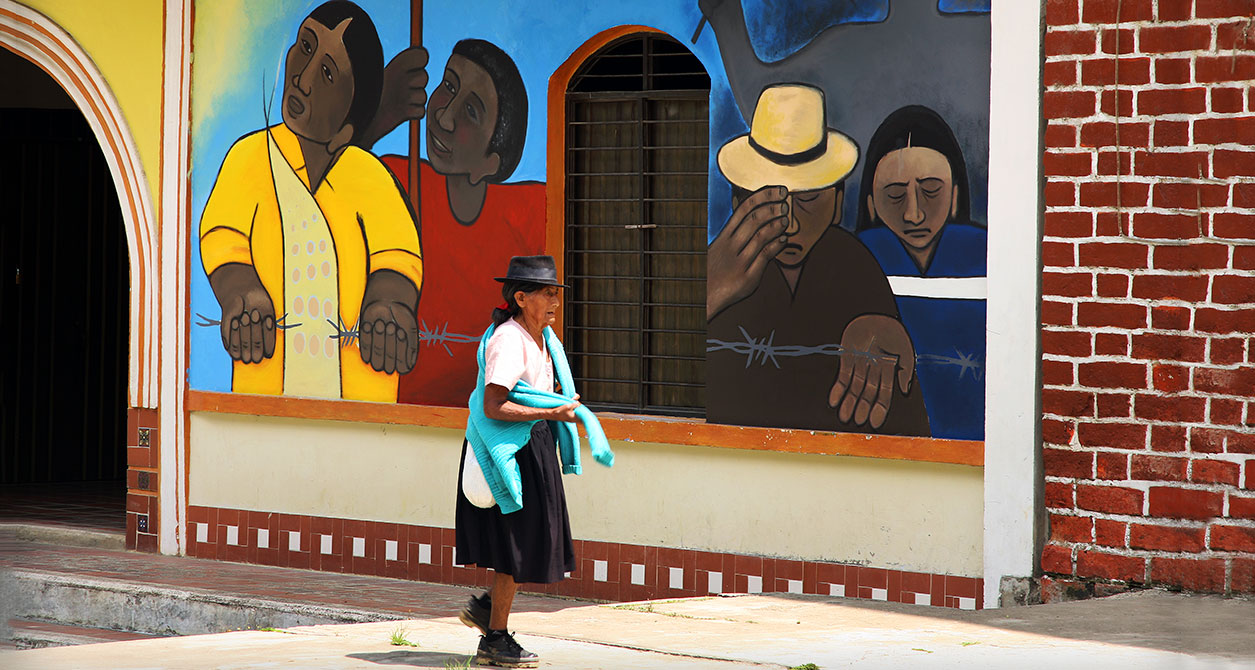
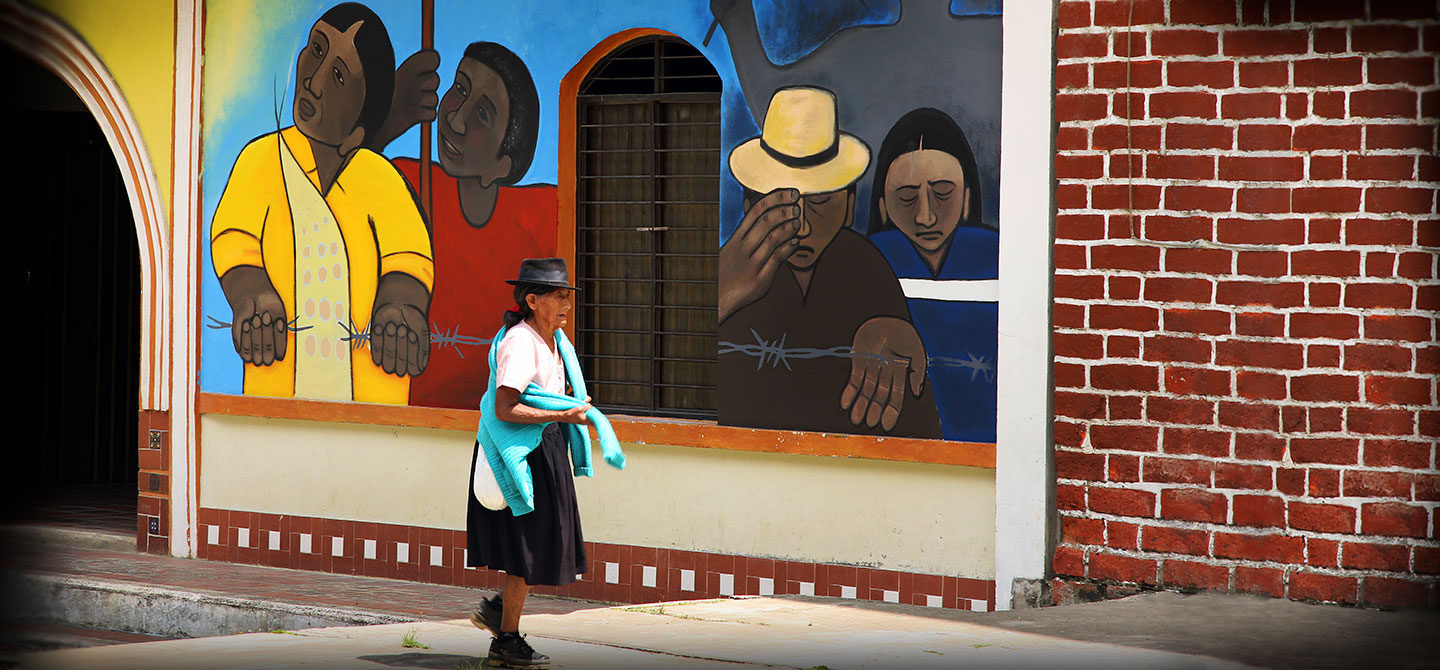
imagen nueva

diff --git a/la-zozobra-sin-fin-indigenas-nasa.html b/la-zozobra-sin-fin-indigenas-nasa.html
@@ -187,7 +187,14 @@
     </div>
 
     <div id="">
-        <div id="element" class="section page sec1" style="background-image: url(img/notacaucacoverold.jpg); background-size: cover; background-position: center -191px; background-repeat: no-repeat;">
+        <div id="element" class="section page sec1" style="    background-image: url(img/notacaucacover.jpg);
+    background-size: cover;
+    background-repeat: no-repeat;
+    background-position: center 0px;
+    height: calc(100vh - 68px);
+    top: 68px;
+    position: relative;
+    margin-bottom: 68px;">
             <div class="theTitle">
                 <h1>La zozobra sin fin de los indígenas Nasa</h1>
             </div>
